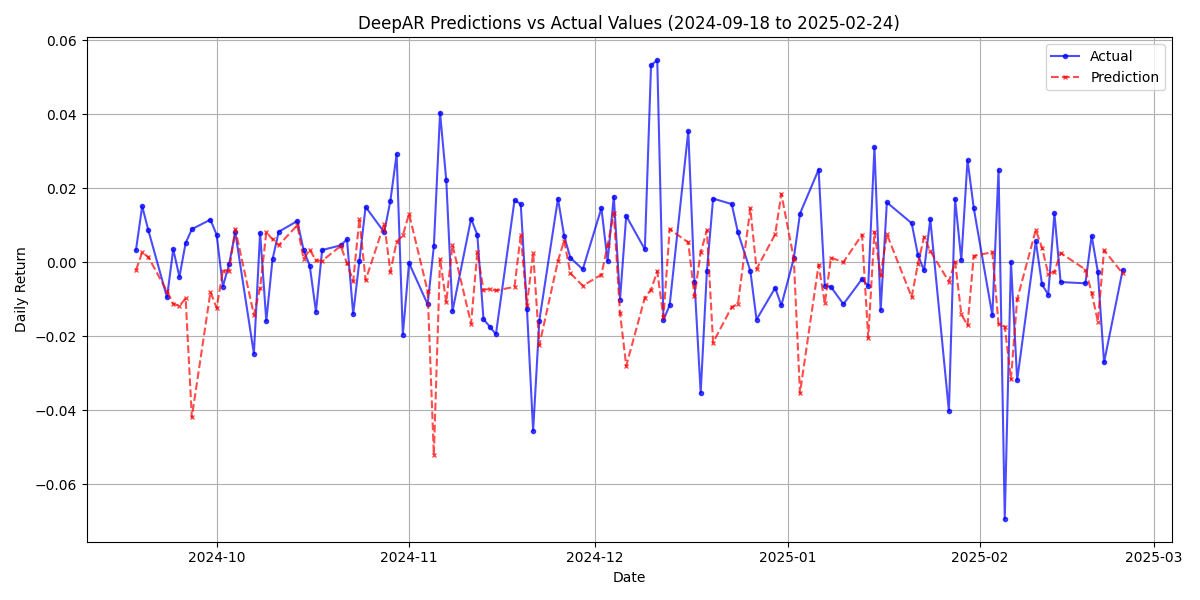
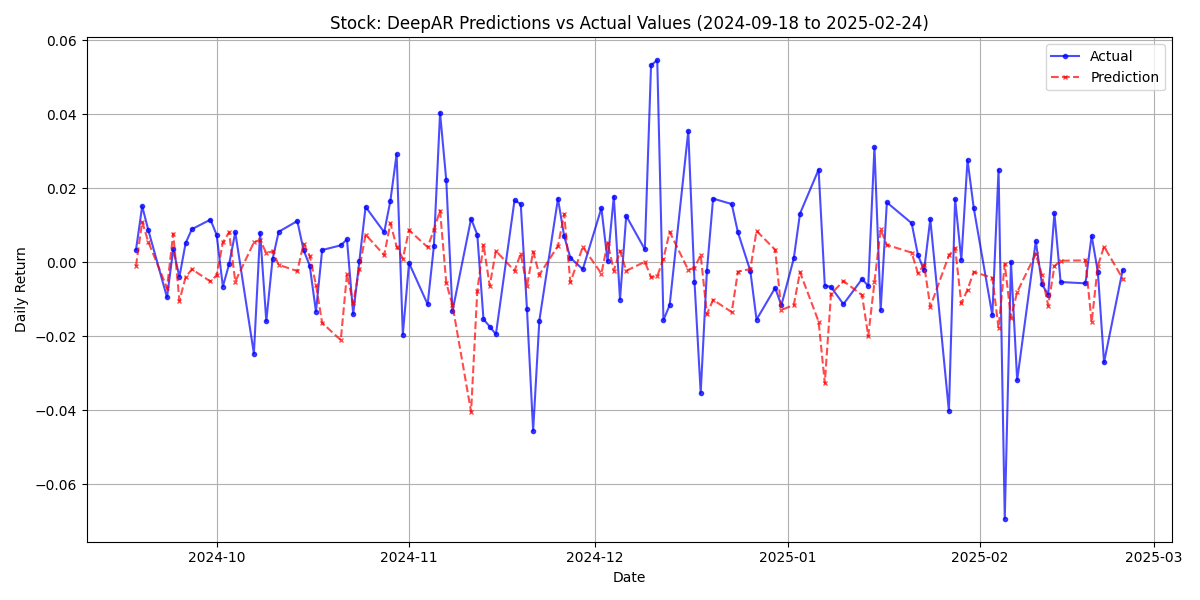
formalize deepar-prediction

diff --git a/DeepAR/deepar_prediction.py b/DeepAR/deepar_prediction.py
@@ -19,20 +19,15 @@ import matplotlib.pyplot as plt
 logger = logging.getLogger('DeepAR.Eval')
 
 parser = argparse.ArgumentParser()
-parser.add_argument('--dataset', default='goog_stock_processed', help='Name of the dataset')
+parser.add_argument('ticker', type=str, help='Stock ticker symbol (e.g., AAPL, MSFT, GOOG)')
 parser.add_argument('--data-folder', default='data', help='Parent dir of the dataset')
-parser.add_argument('--model-name', default='goog_base_model', help='Directory containing params.json')
 parser.add_argument('--relative-metrics', action='store_true', help='Whether to normalize the metrics by label scales')
 parser.add_argument('--sampling', action='store_true', help='Whether to sample during evaluation')
-parser.add_argument('--restore-file', default='best',
-                   help='Optional, name of the file in --model_dir containing weights to reload before training')
-# Add parameters for saving prediction results
-parser.add_argument('--save-predictions', action='store_true', help='Whether to save predictions to CSV')
-parser.add_argument('--predictions-file', default='predictions.csv', 
-                   help='Path to save predictions CSV file (relative to model directory)')
+parser.add_argument('--epoch', type=int, default=6, help='Epoch number to restore (use -1 for best)')
+parser.add_argument('--with-sentiment', action='store_true', help='Whether to use data with sentiment analysis')
 parser.add_argument('--test-start', default='2024-09-18', 
                    help='Test data start date (YYYY-MM-DD), used when saving predictions')
-parser.add_argument('--test-end', default='2025-03-15', 
+parser.add_argument('--test-end', default='2025-02-24', 
                    help='Test data end date (YYYY-MM-DD), limit predictions up to this date')
 
 
@@ -187,7 +182,7 @@ def plot_eight_windows(plot_dir,
     f.savefig(os.path.join(plot_dir, str(plot_num) + '.png'))
     plt.close()
 
-def save_predictions_to_csv(predictions, targets, test_start, test_end, stride_size, output_file):
+def save_predictions_to_csv(predictions, targets, test_start, test_end, stride_size, output_file, ticker, with_sentiment=False):
     """
     Save prediction results to a CSV file, using original stock data as actual values
     """
@@ -234,11 +229,15 @@ def save_predictions_to_csv(predictions, targets, test_start, test_end, stride_s
     df = df.drop_duplicates(subset='Date', keep='last')
     df = df.sort_values('Date')
     
-    # Load original stock data
-    original_data_path = '../data/stock/goog_stock_wsenti.csv'  # Adjust to your file path
+    # Load original stock data based on ticker
+    if with_sentiment:
+        original_data_path = f'../data/stock/{ticker.lower()}_stock_wsenti.csv'
+    else:
+        original_data_path = f'../data/stock/{ticker.lower()}_stock_data.csv'
+    
     logger.info(f"Loading original stock data: {original_data_path}")
     try:
-        original_data = pd.read_csv('../data/stock/goog_stock_wsenti.csv')
+        original_data = pd.read_csv(original_data_path)
         original_data['Date'] = pd.to_datetime(original_data['Date']).dt.tz_localize(None)
         df['Date'] = df['Date'].dt.tz_localize(None)
         df = pd.merge(df, original_data[['Date', 'Daily Return']], 
@@ -266,7 +265,8 @@ def save_predictions_to_csv(predictions, targets, test_start, test_end, stride_s
             logger.info(f"Evaluation with original data - MAE: {mae:.6f}, RMSE: {rmse:.6f}, Direction Accuracy: {dir_acc:.4f}")
     except Exception as e:
         logger.error(f"Error loading original data: {e}")
-        raise ValueError("Unable to access original stock data. Please ensure the data file path is correct and contains the required columns.")
+        logger.error(f"Looking for file at: {original_data_path}")
+        raise ValueError(f"Unable to access original stock data for {ticker}. Please ensure the data file path is correct and contains the required columns.")
     
     # Date range information
     min_date = df['Date'].min().strftime('%Y-%m-%d')
@@ -287,7 +287,7 @@ def save_predictions_to_csv(predictions, targets, test_start, test_end, stride_s
     # Plot predicted values
     plt.plot(df['Date'], df['prediction'], 'x--', label='Prediction', color='red', alpha=0.7, markersize=3)
     
-    plt.title(f'DeepAR Predictions vs Actual Values ({min_date} to {max_date})')
+    plt.title(f'Stock: DeepAR Predictions vs Actual Values ({min_date} to {max_date})')
     plt.xlabel('Date')
     plt.ylabel('Daily Return')
     plt.legend()
@@ -304,14 +304,34 @@ def save_predictions_to_csv(predictions, targets, test_start, test_end, stride_s
 if __name__ == '__main__':
     # Load the parameters
     args = parser.parse_args()
-    model_dir = os.path.join('experiments', args.model_name) 
+    
+    # Generate dataset and model names based on ticker
+    dataset = f"{args.ticker.lower()}_stock_processed"
+    model_name = f"{args.ticker.lower()}_base_model"
+    
+    # Set up restore file name based on epoch
+    if args.epoch < 0:
+        restore_file = 'best'
+    else:
+        restore_file = f'epoch_{args.epoch}'
+    
+    # Set up paths
+    model_dir = os.path.join('experiments', model_name) 
     json_path = os.path.join(model_dir, 'params.json')
-    data_dir = os.path.join(args.data_folder, args.dataset)
-    assert os.path.isfile(json_path), 'No json configuration file found at {}'.format(json_path)
+    data_dir = os.path.join(args.data_folder, dataset)
+    
+    # Check if model configuration exists
+    assert os.path.isfile(json_path), f'No json configuration file found at {json_path}'
     params = utils.Params(json_path)
 
+    # Set up logging
     utils.set_logger(os.path.join(model_dir, 'deepar-prediction.log'))
+    logger.info(f"Running predictions for ticker: {args.ticker.upper()}")
+    logger.info(f"Using dataset: {dataset}")
+    logger.info(f"Using model: {model_name}")
+    logger.info(f"Restoring from: {restore_file}")
 
+    # Pass arguments to params
     params.relative_metrics = args.relative_metrics
     params.sampling = args.sampling
     params.model_dir = model_dir
@@ -320,24 +340,22 @@ if __name__ == '__main__':
     # Ensure plot directory exists
     os.makedirs(params.plot_dir, exist_ok=True)
     
-    cuda_exist = torch.cuda.is_available()  # use GPU is available
+    # Check CUDA availability
+    cuda_exist = torch.cuda.is_available()
 
-    # Set random seeds for reproducible experiments if necessary
+    # Set up device
     if cuda_exist:
         params.device = torch.device('cuda')
-        # torch.cuda.manual_seed(240)
         logger.info('Using Cuda...')
         model = net.Net(params).cuda()
     else:
         params.device = torch.device('cpu')
-        # torch.manual_seed(230)
         logger.info('Not using cuda...')
         model = net.Net(params)
 
     # Create the input data pipeline
     logger.info('Loading the datasets...')
-
-    test_set = TestDataset(data_dir, args.dataset, params.num_class)
+    test_set = TestDataset(data_dir, dataset, params.num_class)
     test_loader = DataLoader(test_set, batch_size=params.predict_batch, sampler=RandomSampler(test_set), num_workers=4)
     logger.info('- done.')
 
@@ -347,7 +365,7 @@ if __name__ == '__main__':
     logger.info('Starting evaluation')
 
     # Reload weights from the saved file
-    utils.load_checkpoint(os.path.join(model_dir, args.restore_file + '.pth.tar'), model)
+    utils.load_checkpoint(os.path.join(model_dir, restore_file + '.pth.tar'), model)
 
     # Run evaluation
     test_metrics = evaluate(model, loss_fn, test_loader, params, -1, params.sampling)
@@ -357,17 +375,20 @@ if __name__ == '__main__':
     targets = np.array(test_metrics.pop('targets', []))
     
     # Save evaluation metrics (without predictions and target data)
-    save_path = os.path.join(model_dir, 'metrics_test_{}.json'.format(args.restore_file))
+    save_path = os.path.join(model_dir, f'metrics_test_{restore_file}.json')
     utils.save_dict_to_json(test_metrics, save_path)
     
-    # If prediction results need to be saved
-    if args.save_predictions and predictions.size > 0 and targets.size > 0:
+    # Generate predictions file name
+    predictions_file = os.path.join(model_dir, 'deepar_predictions.csv')
+    
+    # If there are predictions to save
+    if predictions.size > 0 and targets.size > 0:
         # Get stride_size
         stride_size = getattr(params, 'stride_size', 5)
         
         # Save prediction results to CSV
-        predictions_file = os.path.join(model_dir, args.predictions_file)
-        save_predictions_to_csv(predictions, targets, args.test_start, args.test_end, stride_size, predictions_file)
+        save_predictions_to_csv(predictions, targets, args.test_start, args.test_end, 
+                                stride_size, predictions_file, args.ticker, args.with_sentiment)
         
         # Output statistics
         logger.info("Prediction generation complete. Summary statistics:")
@@ -392,8 +413,10 @@ if __name__ == '__main__':
             'targets': targets.tolist()
         }
         
-        predictions_json_path = os.path.join(model_dir, 'predictions_data_{}.json'.format(args.restore_file))
+        predictions_json_path = os.path.join(model_dir, f'predictions_data_{restore_file}.json')
         with open(predictions_json_path, 'w') as f:
             json.dump(predictions_data, f)
         
         logger.info(f"Prediction data saved to: {predictions_json_path}")
+    else:
+        logger.error("No predictions generated!")

diff --git a/README.md b/README.md
@@ -101,11 +101,19 @@ python train.py --ticker <ticker_in_lowercase>
 # Evaluate the model
 python evaluate.py --ticker <ticker_in_lowercase>
 
+# load all epochs' prediction results
 ## to run with sentiment data
 python load_model_results.py <ticker_in_lowercase> --with_sentiment
 
 ## to run without sentiment data
 python load_model_results.py <ticker_in_lowercase>
+
+# Load and save the long term prediction result from human-identified best epoch
+## to run with sentiment data
+python deepar_prediction.py <ticker_in_lowercase> --with-sentiment --epoch <epoch_number>
+
+## to run without sentiment data
+python deepar_prediction.py <ticker_in_lowercase> --epoch <epoch_number>
 ```
 
 3. Sentiment Analysis
